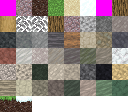
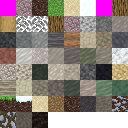
Р87: именованные почвы - шаг 1 работ по геологии
Состав почвы считается непрерывно - по дождям, теплу, крутизне и двум своим
шумам, - а наружу отдаётся ближайшее имя из справочника, как у пород (Р78).
Девять почв: песок, супесь, суглинок, пылеватый и глинистый суглинок, пыль,
глина, ил, торф. Это тело земли под покровом: сверху дёрн или песок, а чем
сложена толща - видно в обрыве и в выкопанной яме.

Первая попытка считала песок, глину и перегной, а пыль брала остатком - и
остаток забирал всё себе: почва по всему миру выходила одна и та же. Теперь
каждая доля считается своя, и только потом все четыре приводятся к единице.

diff --git a/src/world/terrain.cpp b/src/world/terrain.cpp
@@ -1,6 +1,7 @@
 #include "world/terrain.h"
 
 #include "world/caves.h"
+#include "world/soil_table.h"
 
 #include <algorithm>
 #include <cmath>
@@ -221,15 +222,39 @@ int16_t soilFromSlope(int32_t sl) {
     return int16_t(int32_t(SOIL_FULL) * (BARE_TO - sl) / (BARE_TO - BARE_FROM));
 }
 
-Cover coverAt(const TerrainParams& p, const Climate& c, int32_t height) {
+Cover coverAt(const TerrainParams& p, const Climate& c, int32_t height, int32_t x, int32_t z, int32_t slope8) {
     const fx::q16 t = temperatureAt(p, c, height);
+    // Р87: СОСТАВ ПОЧВЫ - НЕПРЕРЫВНО, ИМЯ - БЛИЖАЙШЕЕ. Доли считаются по четырём доводам, а потом
+    // приближаются именованной почвой из справочника (world/soil_table.h), как и у пород (Р78).
+    //
+    //   дожди   - выщелачивают основания и накапливают глину; в сухом остаётся песок и пыль;
+    //   холод и сырость - перегной не разлагается, копится торф;
+    //   крутизна - мелкое сносит вниз, на склоне остаётся крупное;
+    //   свой шум - иначе почва менялась бы только с климатом, полосами в десятки километров.
+    const float rain01 = std::clamp(float(c.rain) / float(2 * p.rainMid), 0.0f, 1.0f);
+    const float warm01 = std::clamp((float(t) / 65536.0f + 10.0f) / 40.0f, 0.0f, 1.0f);
+    const float steep = std::clamp(float(slope8) / 12.0f, 0.0f, 1.0f);
+    // Два своих шума, крупный и помельче: с одним доли ходили бы вместе, и состав полз бы по прямой
+    // между двумя почвами вместо того, чтобы гулять по всему треугольнику.
+    const float n1 = float(gen::value2(x, z, 11, p.seed ^ 0x50113u)) / 65536.0f;   // -1..1
+    const float n2 = float(gen::value2(x, z, 9, p.seed ^ 0x7A2D1u)) / 65536.0f;
+    // Каждая доля считается СВОЯ, а не остатком. Остаток забирал всё себе, и почва по всему миру
+    // выходила одна и та же - пылеватый суглинок.
+    SoilComp sc;
+    sc.sand = std::max(0.02f, 0.10f + 0.70f * (1.0f - rain01) + 0.45f * steep + 0.25f * n1);
+    sc.silt = std::max(0.02f, 0.30f + 0.40f * (1.0f - std::abs(rain01 - 0.5f) * 2.0f) - 0.20f * n1 + 0.15f * n2);
+    sc.clay = std::max(0.01f, 0.05f + 0.75f * rain01 * warm01 - 0.35f * steep + 0.22f * n2);
+    sc.organic = std::max(0.0f, 0.02f + 1.10f * std::max(0.0f, rain01 - 0.35f) * (1.0f - warm01) * (1.0f - steep));
+    const float sum = sc.sand + sc.silt + sc.clay + sc.organic;
+    sc.sand /= sum; sc.silt /= sum; sc.clay /= sum; sc.organic /= sum;
+    const Material soil = Material(SOIL_FIRST + nearestSoil(sc));
     // Р82: снег - слой поверх покрова, а не сам покров. Поэтому сначала выбираем, что лежит под
     // ним, и только потом добавляем толщину снега. Чем холоднее порога, тем слой толще: у самого
     // порога - одна шестнадцатая блока, на восемь градусов ниже - целый блок.
     Cover cv = [&]() -> Cover {
         if (height < p.seaLevel + 2 * VOXELS_PER_BLOCK) return {SAND, SAND};   // Р25: дно и берег - песок
-        if (c.rain < p.desertRain && t > p.desertTemp) return {SAND, SAND};
-        return {GRASS, DIRT};
+        if (c.rain < p.desertRain && t > p.desertTemp) return {SAND, soil};
+        return {GRASS, soil};
     }();
     if (t < p.snowBelow) {
         constexpr fx::q16 FULL = 8 * DEG;   // насколько ниже порога снег вырастает до целого блока
@@ -428,13 +453,25 @@ void columnHeights(const TerrainParams& p, int32_t chunkX, int32_t chunkZ, Colum
             }
     }
 
+    // Р87: крутизна в восьмых долях тангенса - тот же сглаженный уклон, по которому снимается
+    // покров (Р79); почве он говорит, что мелкое снесено вниз, а на склоне осталось крупное.
+    const auto slopeOf = [&](int z, int x) {
+        const int zc = std::clamp(z, 1, CHUNK), xc = std::clamp(x, 1, CHUNK);
+        const int32_t gx = (out.h[zc - 1][xc + 1] + 2 * out.h[zc][xc + 1] + out.h[zc + 1][xc + 1]) -
+                           (out.h[zc - 1][xc - 1] + 2 * out.h[zc][xc - 1] + out.h[zc + 1][xc - 1]);
+        const int32_t gz = (out.h[zc + 1][xc - 1] + 2 * out.h[zc + 1][xc] + out.h[zc + 1][xc + 1]) -
+                           (out.h[zc - 1][xc - 1] + 2 * out.h[zc - 1][xc] + out.h[zc - 1][xc + 1]);
+        return std::max(std::abs(gx), std::abs(gz));
+    };
+
     // Климат и покров. Р82: считаются С КАЙМОЙ, потому что толщина снега нужна и ей - у снежного
     // слоя есть боковые грани, и без каймы на каждой границе кусков вставала бы лишняя стенка.
     // У воды рек и озёр - песок (Р29).
     for (int z = 0; z < CHUNK + 2; ++z)
         for (int x = 0; x < CHUNK + 2; ++x) {
             Cover cv = shore[z][x] ? Cover{SAND, SAND}
-                                   : coverAt(p, climateAt(p, x0 + x, z0 + z, slow.at(x0 + x, z0 + z)), out.h[z][x]);
+                                   : coverAt(p, climateAt(p, x0 + x, z0 + z, slow.at(x0 + x, z0 + z)), out.h[z][x],
+                                               x0 + x, z0 + z, slopeOf(z, x));
             // Р82: под водой снега нет - он лежит на суше
             if (out.water[z][x] != NO_WATER && out.water[z][x] > out.h[z][x]) cv.snow = 0;
             out.snow[z][x] = cv.snow;

diff --git a/tools/atlas.py b/tools/atlas.py
@@ -27,8 +27,8 @@ TFC = os.path.join(GAME, "mods", "TerraFirmaCraft-Forge-1.20.1-3.2.21.jar")
 VANILLA = os.path.join(GAME, "versions", "Forge 1.20.1", "Forge 1.20.1.jar")
 
 TILE = 16          # сторона рисунка, точек
-LAYERS = 50        # материалы 0..49 (world/chunk.h)
-COLS, ROWS = 8, 7  # раскладка только для картинки-образца atlas.png
+LAYERS = 59        # материалы 0..58 (world/chunk.h)
+COLS, ROWS = 8, 8  # раскладка только для картинки-образца atlas.png
 
 # ── чтение PNG без сторонних библиотек: нам нужны только 16×16 RGBA и палитровые ────────────────
 
@@ -125,6 +125,10 @@ MIXED = [("granite", (0.67, 0.63, 0.60)), ("diorite", (0.70, 0.66, 0.60)), ("gab
 # материалы 0..11 (world/chunk.h): воздух, камень, земля, трава, песок, снег, вода, кора, древесина,
 # листва, листва светлее, кора в трещине
 GRASS_RGB = (0.36, 0.58, 0.25)   # тот же цвет, что в shaders/terrain.vert
+# Р87: почвы по номерам SOIL_FIRST.. - порядок ровно как в src/world/soil_table.cpp
+SOILS = ["tfc:block/sand/yellow", "tfc:block/dirt/sandy_loam", "tfc:block/dirt/loam",
+         "tfc:block/dirt/silty_loam", "tfc:block/dirt/silt", "tfc:block/clay/loam",
+         "tfc:block/clay/silty_loam", "tfc:block/mud/silt", "tfc:block/peat"]
 BASE = ["", "tfc:block/rock/raw/granite", "tfc:block/dirt/loam", "tfc:block/grass_top", "tfc:block/sand/yellow",
         "mc:block/snow", "", "tfc:block/wood/log/oak", "tfc:block/wood/stripped_log/oak", "tfc:block/wood/leaves/oak",
         "tfc:block/wood/leaves/oak", "tfc:block/wood/log/oak"]
@@ -175,6 +179,9 @@ def main():
     tiles[48] = over(recolor(load("tfc:block/grass_side"), GRASS_RGB), tiles[2])
     # Р82: тот же бок, но под снежной шапкой - полоска снега; снег в TFC не красится палитрой
     tiles[49] = over(load("tfc:block/grass_snowy_side"), tiles[2])
+    # Р87: именованные почвы - порядок ровно как в src/world/soil_table.cpp
+    for i, ref in enumerate(SOILS):
+        tiles[50 + i] = load(ref)
 
     W, H = COLS * TILE, ROWS * TILE
     px = [(0, 0, 0, 0)] * (W * H)

diff --git a/src/world/lod.cpp b/src/world/lod.cpp
@@ -112,7 +112,9 @@ void buildTile(const TerrainParams& p, TileKey k, TileMesh& out) {
                                slope256(hc[j + 2][i + 1] - hc[j][i + 1], 2 * step) << 16;
             const int32_t wx = int32_t(x0 + i * 2 * step), wz = int32_t(z0 + j * 2 * step);
             Cover c = shoreC[j + 1][i + 1] ? Cover{SAND, SAND}
-                                             : coverAt(p, climateAt(p, wx, wz, slowFine(wx, wz)), hc[j + 1][i + 1]);   // климату отсечка октав не нужна
+                                             : coverAt(p, climateAt(p, wx, wz, slowFine(wx, wz)), hc[j + 1][i + 1], wx, wz,
+                                                       std::max(std::abs(4 * (hc[j + 1][i + 2] - hc[j + 1][i]) / int32_t(2 * step)),
+                                                                std::abs(4 * (hc[j + 2][i + 1] - hc[j][i + 1]) / int32_t(2 * step))));
             // Р82: вдали снежный слой не рисуется отдельно - столбец просто белый
             if (c.snow) c.top = SNOW;
             // Р41: устье пещеры - бурым пятном (вдали пещер нет - только метка); шаг грубой сетки - вдвое
@@ -141,7 +143,11 @@ void buildTile(const TerrainParams& p, TileKey k, TileMesh& out) {
             const int32_t hcT = hc[cj + 1][ci + 1];
 
             const Climate cl = climateAt(p, int32_t(x0 + i * step), int32_t(z0 + j * step), slowFine(x0 + i * step, z0 + j * step));
-            Cover c = shoreF[j + 1][i + 1] ? Cover{SAND, SAND} : coverAt(p, cl, h);
+            Cover c = shoreF[j + 1][i + 1]
+                          ? Cover{SAND, SAND}
+                          : coverAt(p, cl, h, int32_t(x0 + i * step), int32_t(z0 + j * step),
+                                    std::max(std::abs(4 * (hf[j + 1][i + 2] - hf[j + 1][i]) / int32_t(step)),
+                                             std::abs(4 * (hf[j + 2][i + 1] - hf[j][i + 1]) / int32_t(step))));
             if (c.snow) c.top = SNOW;   // Р82: вдали снежный слой - просто белый верх
             // Р67: густота леса в узле (как у дубов вблизи и спрайтов) - для шума крон вдали; у воды, на берегу и на
             // кручах (больше блока на блок) - ноль

diff --git a/src/world/soil_table.cpp b/src/world/soil_table.cpp
@@ -1,0 +1,37 @@
+#include "world/soil_table.h"
+
+namespace world {
+namespace {
+
+// Порядок неизменен: номер почвы идёт в материал. Доли - по учебному треугольнику почв, огрублённо.
+const SoilDef TABLE[SOIL_COUNT] = {
+    {"песок",               {0.90f, 0.06f, 0.02f, 0.02f}, "tfc:block/sand/yellow"},
+    {"супесь",              {0.70f, 0.18f, 0.08f, 0.04f}, "tfc:block/dirt/sandy_loam"},
+    {"суглинок",            {0.42f, 0.38f, 0.16f, 0.04f}, "tfc:block/dirt/loam"},
+    {"пылеватый суглинок",  {0.22f, 0.58f, 0.16f, 0.04f}, "tfc:block/dirt/silty_loam"},
+    {"пыль",                {0.10f, 0.80f, 0.07f, 0.03f}, "tfc:block/dirt/silt"},
+    {"глинистый суглинок",  {0.28f, 0.34f, 0.34f, 0.04f}, "tfc:block/clay/loam"},
+    {"глина",               {0.14f, 0.24f, 0.60f, 0.02f}, "tfc:block/clay/silty_loam"},
+    {"ил",                  {0.16f, 0.46f, 0.26f, 0.12f}, "tfc:block/mud/silt"},
+    {"торф",                {0.06f, 0.16f, 0.08f, 0.70f}, "tfc:block/peat"},
+};
+
+}  // namespace
+
+const SoilDef& soilDef(int soil) { return TABLE[soil < 0 ? 0 : (soil >= SOIL_COUNT ? SOIL_COUNT - 1 : soil)]; }
+
+int nearestSoil(const SoilComp& c) {
+    // Перегной весит больше прочего: торф от суглинка отличается именно им, а доли песка и пыли у
+    // них близки. Без веса торф никогда бы не выпал.
+    int best = 0;
+    float bestD = 1e30f;
+    for (int i = 0; i < SOIL_COUNT; ++i) {
+        const SoilComp& t = TABLE[i].comp;
+        const float ds = c.sand - t.sand, di = c.silt - t.silt, dc = c.clay - t.clay, dg = c.organic - t.organic;
+        const float d = ds * ds + di * di + dc * dc + 3.0f * dg * dg;
+        if (d < bestD) { bestD = d; best = i; }
+    }
+    return best;
+}
+
+}  // namespace world

diff --git a/src/world/soil_table.h b/src/world/soil_table.h
@@ -1,0 +1,33 @@
+#pragma once
+// Р87: СПРАВОЧНИК ПОЧВ - состав и приближение ближайшим именем.
+//
+// Устроен так же, как справочник пород (Р78), и по той же причине. Генератор считает состав почвы
+// в точке НЕПРЕРЫВНО - по дождям, теплу, крутизне и материнской породе, - а наружу отдаёт
+// БЛИЖАЙШЕЕ ИМЯ отсюда. Поэтому переход от песка к глине идёт не смесью двух, а чередой
+// именованных почв: супесь, суглинок, пылеватый суглинок, глинистый суглинок.
+//
+// Состав - четыре доли, в сумме единица: песок (крупное зерно), пыль, глина, перегной.
+#include <cstdint>
+
+namespace world {
+
+/** Доли состава почвы; сумма равна единице. */
+struct SoilComp {
+    float sand, silt, clay, organic;
+};
+
+struct SoilDef {
+    const char* name;    // по-русски, как видит игрок
+    SoilComp comp;
+    const char* tex;     // образец в сборке (tools/atlas.py), пока текстуры чужие
+};
+
+/** Сколько именованных почв. Номер почвы попадает в материал - порядок неизменен. */
+constexpr int SOIL_COUNT = 9;
+
+const SoilDef& soilDef(int soil);
+
+/** Ближайшее имя к составу - по расстоянию в том же пространстве долей. */
+int nearestSoil(const SoilComp& c);
+
+}  // namespace world

diff --git a/tools/column_bench.cpp b/tools/column_bench.cpp
@@ -16,6 +16,7 @@
 
 #include "world/caves.h"
 #include "world/rock_table.h"
+#include "world/soil_table.h"
 #include "world/terrain.h"
 
 using clk = std::chrono::steady_clock;
@@ -206,6 +207,12 @@ void probe(const world::TerrainParams& p, int32_t bx, int32_t bz, int cols, bool
         std::printf("  %7.2f бл: верх %6.1f, земли %5.2f/%5.2f, срез %5.2f;", (alongZ ? vzk : vx) / 16.0, top / 16.0,
                     hm.cover[lz][lx].soil / 16.0, hm.soilThick[lz + 1][lx + 1] / 16.0, srez / 16.0);
         std::printf(" вход %+.4f;", world::entranceNoise(p, vx, vzk) / 65536.0);
+        {   // Р87: какая здесь почва (тело земли под покровом)
+            const world::Material u = hm.cover[lz][lx].under;
+            std::printf(" почва %s;", u >= world::SOIL_FIRST && u <= world::SOIL_LAST
+                                          ? world::soilDef(int(u) - world::SOIL_FIRST).name
+                                          : "-");
+        }
         int runs = 0;
         int32_t runFrom = INT32_MIN, prev = INT32_MIN;
         for (int j = 0; j < 5; ++j) {

diff --git a/src/world/chunk.h b/src/world/chunk.h
@@ -22,6 +22,11 @@ enum : Material { AIR = 0, STONE = 1, DIRT = 2, GRASS = 3, SAND = 4, SNOW = 5, W
                     // Р82: бок блока под снежной шапкой - земля с полоской СНЕГА сверху. Иначе под
                     // снегом по склону шла бы зелёная лесенка дёрна.
                     GRASS_SNOWY_SIDE = 49,
+                    // Р87: именованные почвы (world::soil_table) - материал = SOIL_FIRST + номер.
+                    // Это ТЕЛО земли под покровом, а не верхний воксель: сверху лежит дёрн, песок
+                    // или снег, а вот чем именно сложена толща - песком, суглинком, глиной, торфом -
+                    // видно в обрыве и в выкопанной яме.
+                    SOIL_FIRST = 50, SOIL_LAST = 58,
                     MATERIAL_COUNT };
 
 struct ChunkPos { int32_t x, y, z; };

diff --git a/src/world/terrain.h b/src/world/terrain.h
@@ -175,7 +175,9 @@ struct Cover {
     uint8_t snow = 0;
     bool bare() const { return soil <= 0; }
 };
-Cover coverAt(const TerrainParams& p, const Climate& c, int32_t height);
+// Р87: x, z нужны для собственного шума почвы - без него почва менялась бы только с климатом,
+// то есть полосами в десятки километров, и в одном краю была бы ровно одна.
+Cover coverAt(const TerrainParams& p, const Climate& c, int32_t height, int32_t x, int32_t z, int32_t slope8 = 0);
 // Р79: толщина земли по сглаженному уклону. Уклон - в восьмых долях тангенса (8 - сорок пять
 // градусов). Нужна и дальним плиткам (Р86): без неё дальний обрыв оставался зелёным, а вблизи был
 // каменным, и на кольце перехода стояла черта.

diff --git a/src/devinfo.cpp b/src/devinfo.cpp
@@ -9,6 +9,7 @@
 #include "world/caves.h"
 #include "world/chunk.h"
 #include "world/rock_table.h"
+#include "world/soil_table.h"
 #include "world/terrain.h"
 
 namespace dev {
@@ -38,6 +39,8 @@ const char* plainName(world::Material m) {
 
 std::string nameOf(world::Material m) {
     if (m >= world::ROCK_FIRST && m <= world::ROCK_LAST) return world::rockDef(int(m) - world::ROCK_FIRST).name;
+    if (m >= world::SOIL_FIRST && m <= world::SOIL_LAST) return world::soilDef(int(m) - world::SOIL_FIRST).name;   // Р87
+    if (m == world::GRASS_SIDE || m == world::GRASS_SNOWY_SIDE) return "дёрн";
     return plainName(m);
 }
 

diff --git a/tools/biome_map.cpp b/tools/biome_map.cpp
@@ -64,7 +64,7 @@ int main(int argc, char** argv) {
                 const int32_t wx = vox(cx, x), wz = vox(cz, z);
                 const world::Relief r = world::reliefAt(p, wx, wz);
                 rel[size_t(z) * n + x] = r;
-                cov[size_t(z) * n + x] = world::coverAt(p, world::climateAt(p, wx, wz), r.height);
+                cov[size_t(z) * n + x] = world::coverAt(p, world::climateAt(p, wx, wz), r.height, wx, wz);
             }
     };
     std::vector<std::thread> pool;
